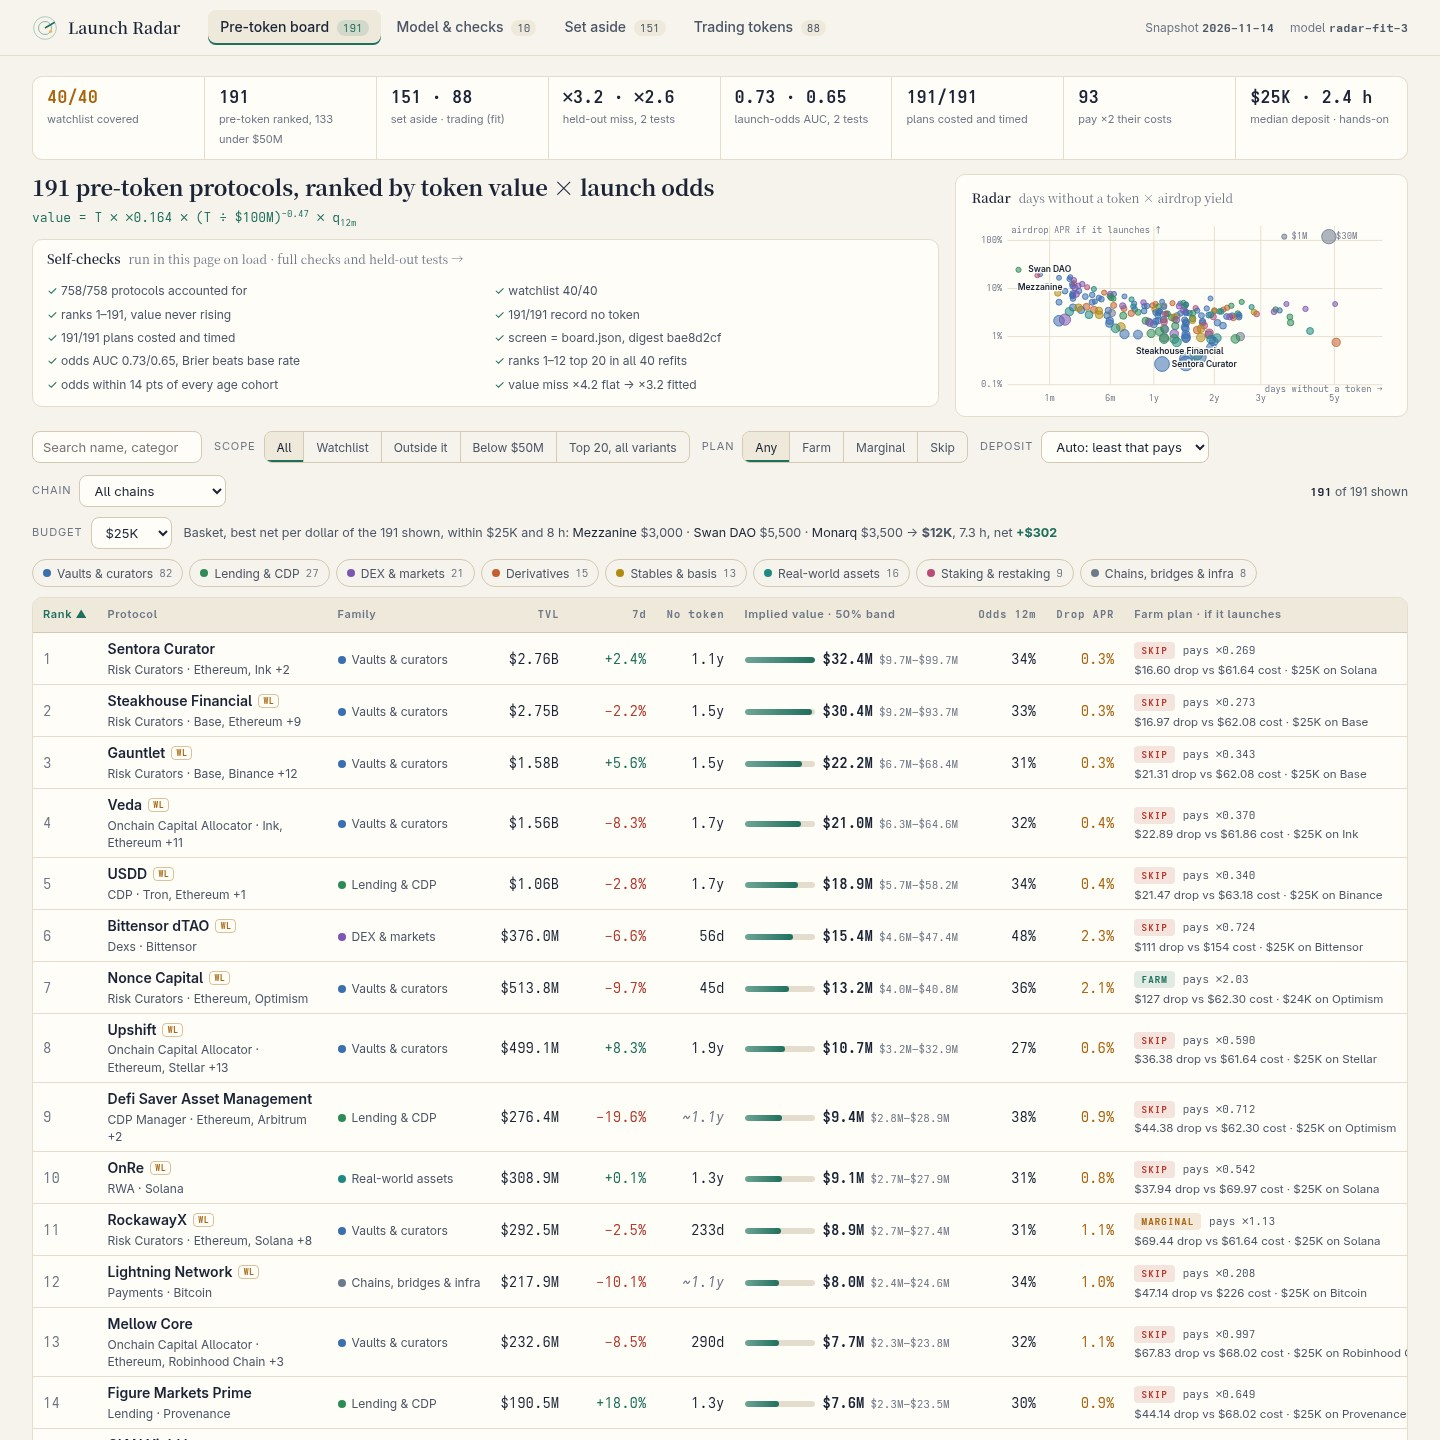
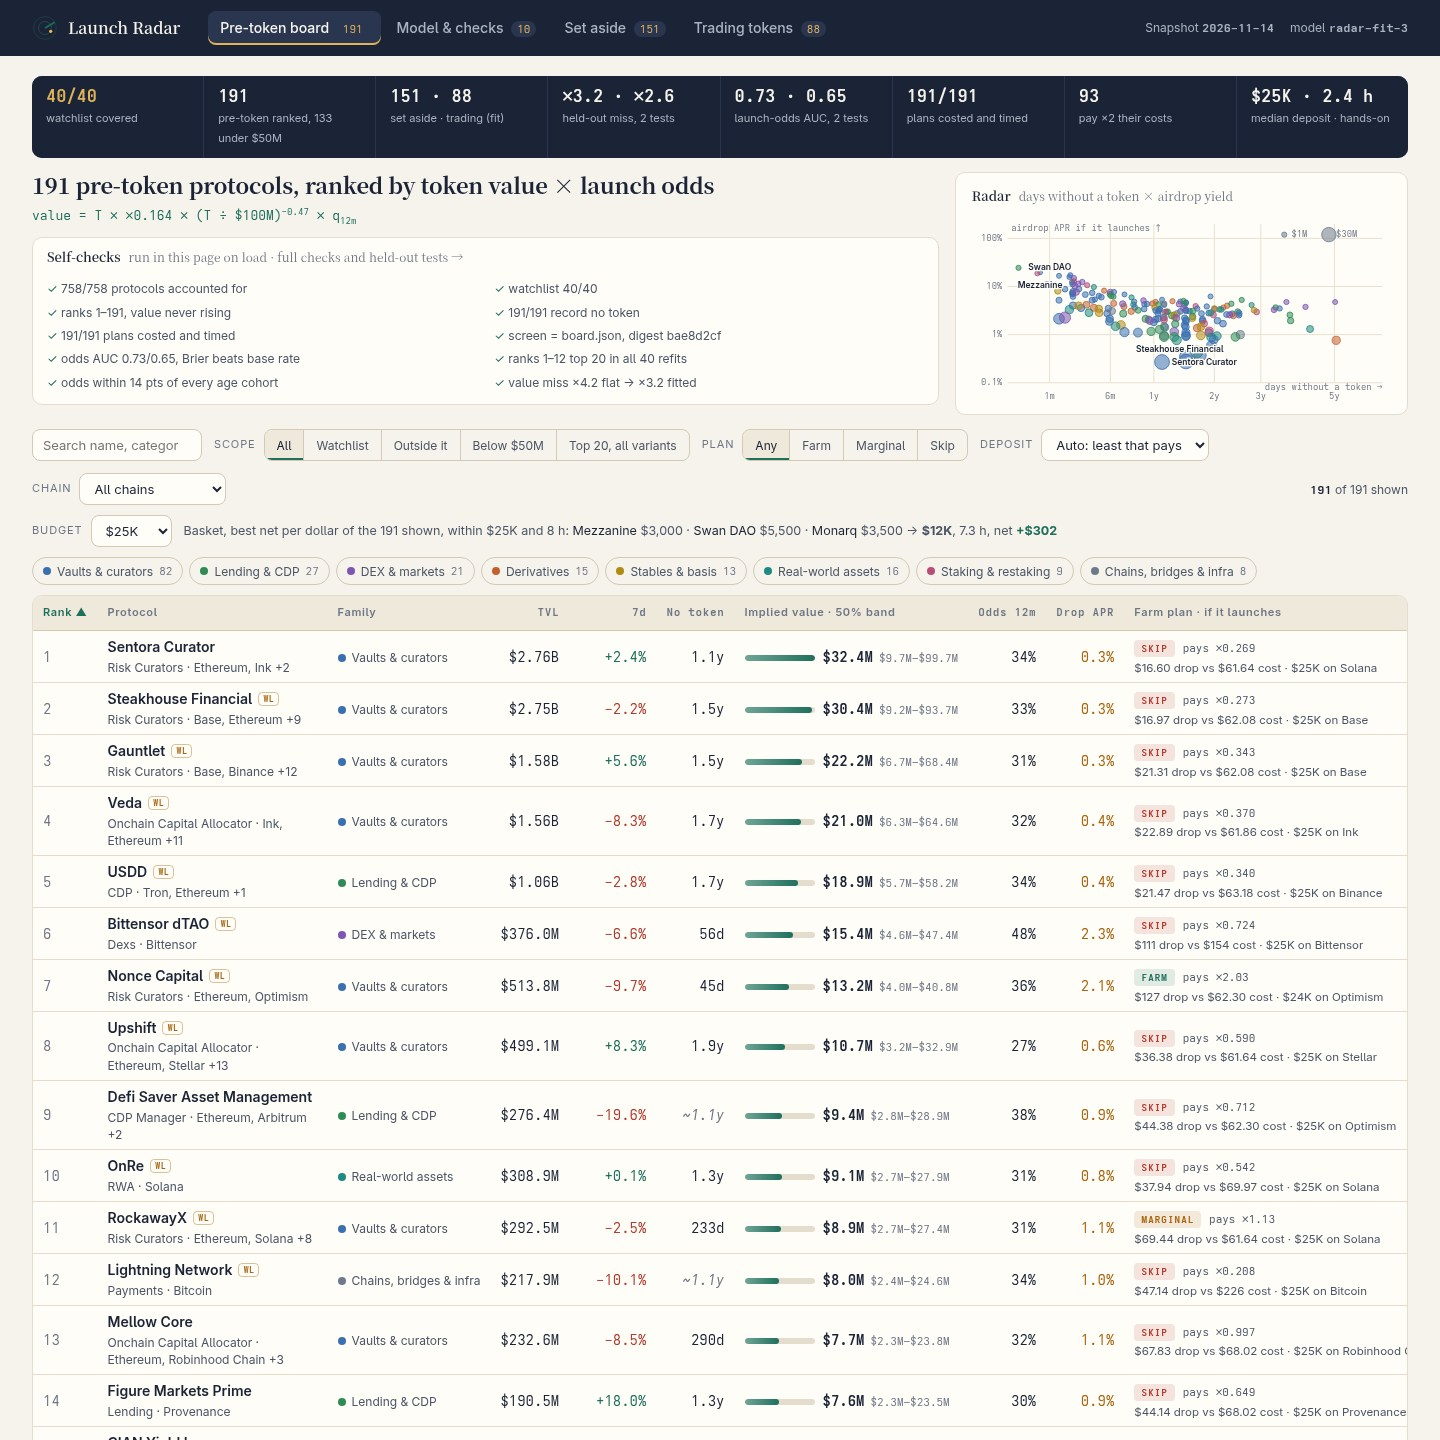
Screenshots for the combined compact cover and title band

diff --git a/dashboard/style.css b/dashboard/style.css
@@ -45,6 +45,17 @@ main{padding:20px 32px 24px;max-width:1440px;margin:0 auto;}
 .strip b{display:block;font:600 17px var(--mono);color:var(--text);}
 .strip div:first-child b{color:var(--amber);}
 .strip span{color:var(--dim);font-size:11px;}
+/* Title band: navy bar and KPI strip carry the identity. */
+.top{background:#1b2436;border-bottom:0;}
+.brand span,.tabs a.on,.tabs a:hover{color:#f6f3ec;}
+.tabs a,.meta,.meta b{color:#aab3c2;}
+.tabs a.on{background:#2a3550;box-shadow:inset 0 -2px 0 #e0b25a;}
+.tabs a b,.tabs a.on b{background:#2a3550;color:#e0b25a;}
+.strip{background:#2a3550;border:0;}
+.strip div{background:#1b2436;}
+.strip b{color:#f6f3ec;}
+.strip div:first-child b{color:#e0b25a;}
+.strip span{color:#aab3c2;}
 .checks{margin-top:4px;padding:10px 14px;}
 .checks ul{list-style:none;margin:0;padding:0;font-size:12px;}
 .checks li{padding:3px 0;color:var(--muted);}
